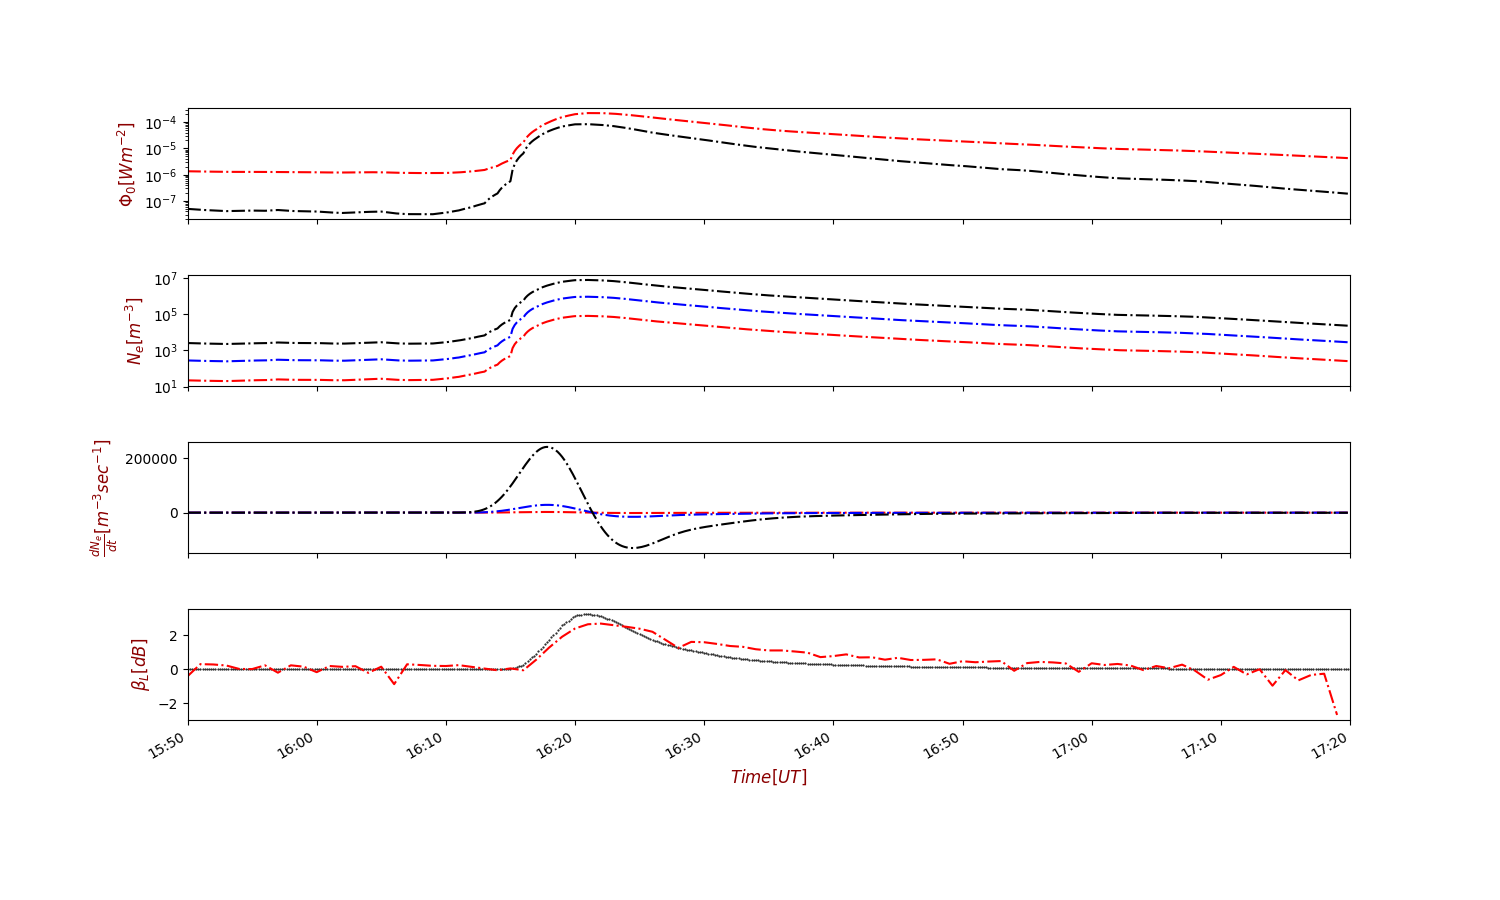
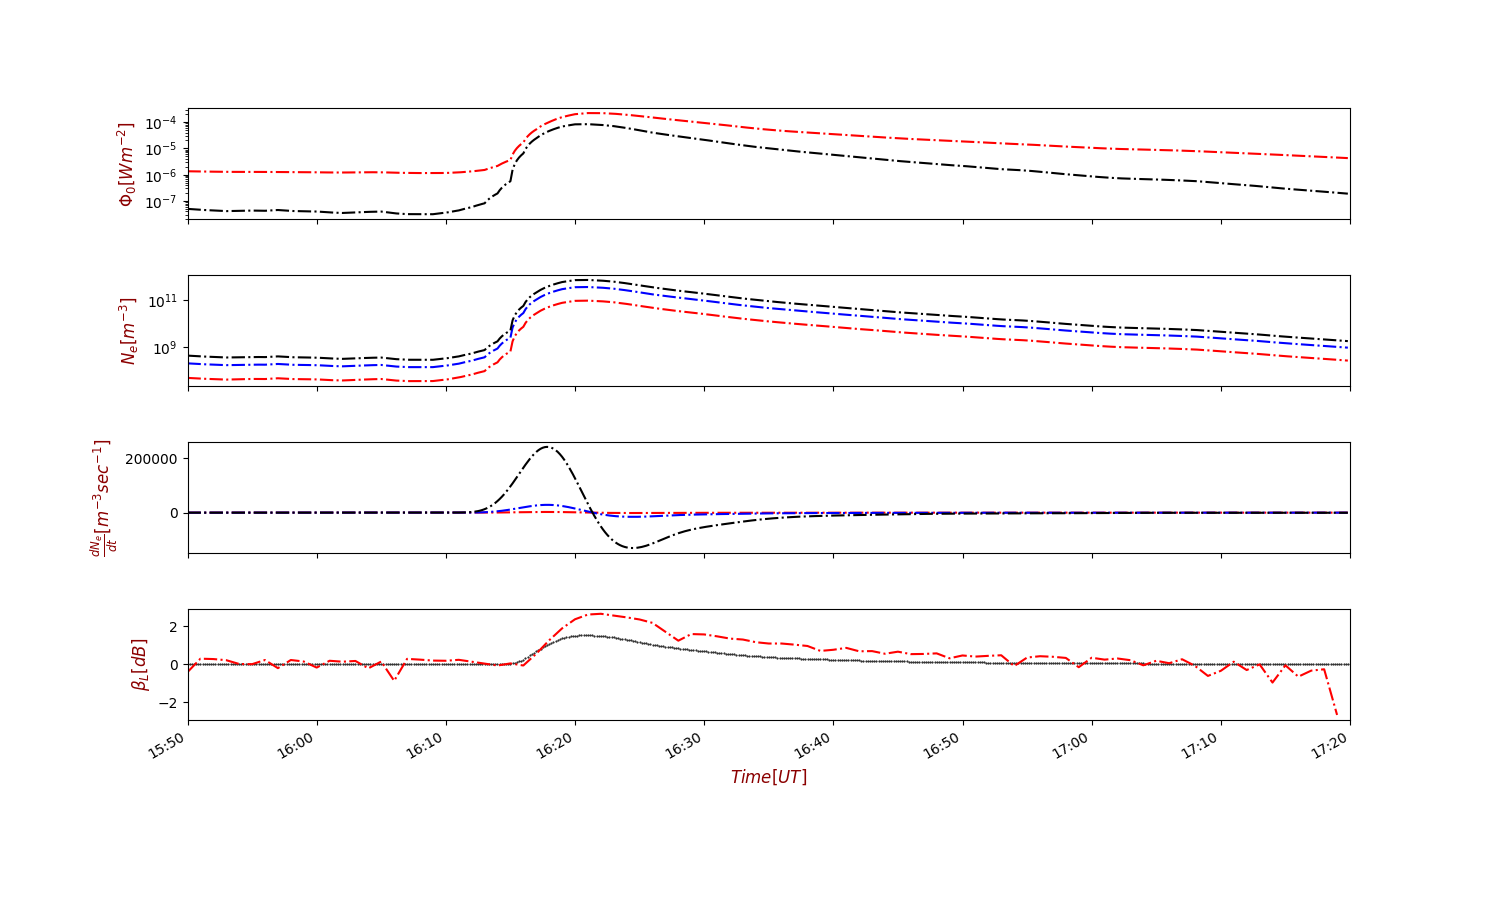
modify ExPR2

diff --git a/ExPR2/swf_util.py b/ExPR2/swf_util.py
@@ -290,7 +290,7 @@ class Absorption_AH(object):
 
 
 
-def plot_summary(stime,etime,geo,EIR,fname,code,alts=[70,71,72],colors=["r-.","b-.","k-."]):
+def plot_summary(stime,etime,geo,EIR,fname,code,alts=[80,83,86],colors=["r-.","b-.","k-."]):
     fmt = matplotlib.dates.DateFormatter("%H:%M")
     fig,axes = plt.subplots(figsize=(15,9),nrows=4)
     fig.subplots_adjust(hspace=0.5)
